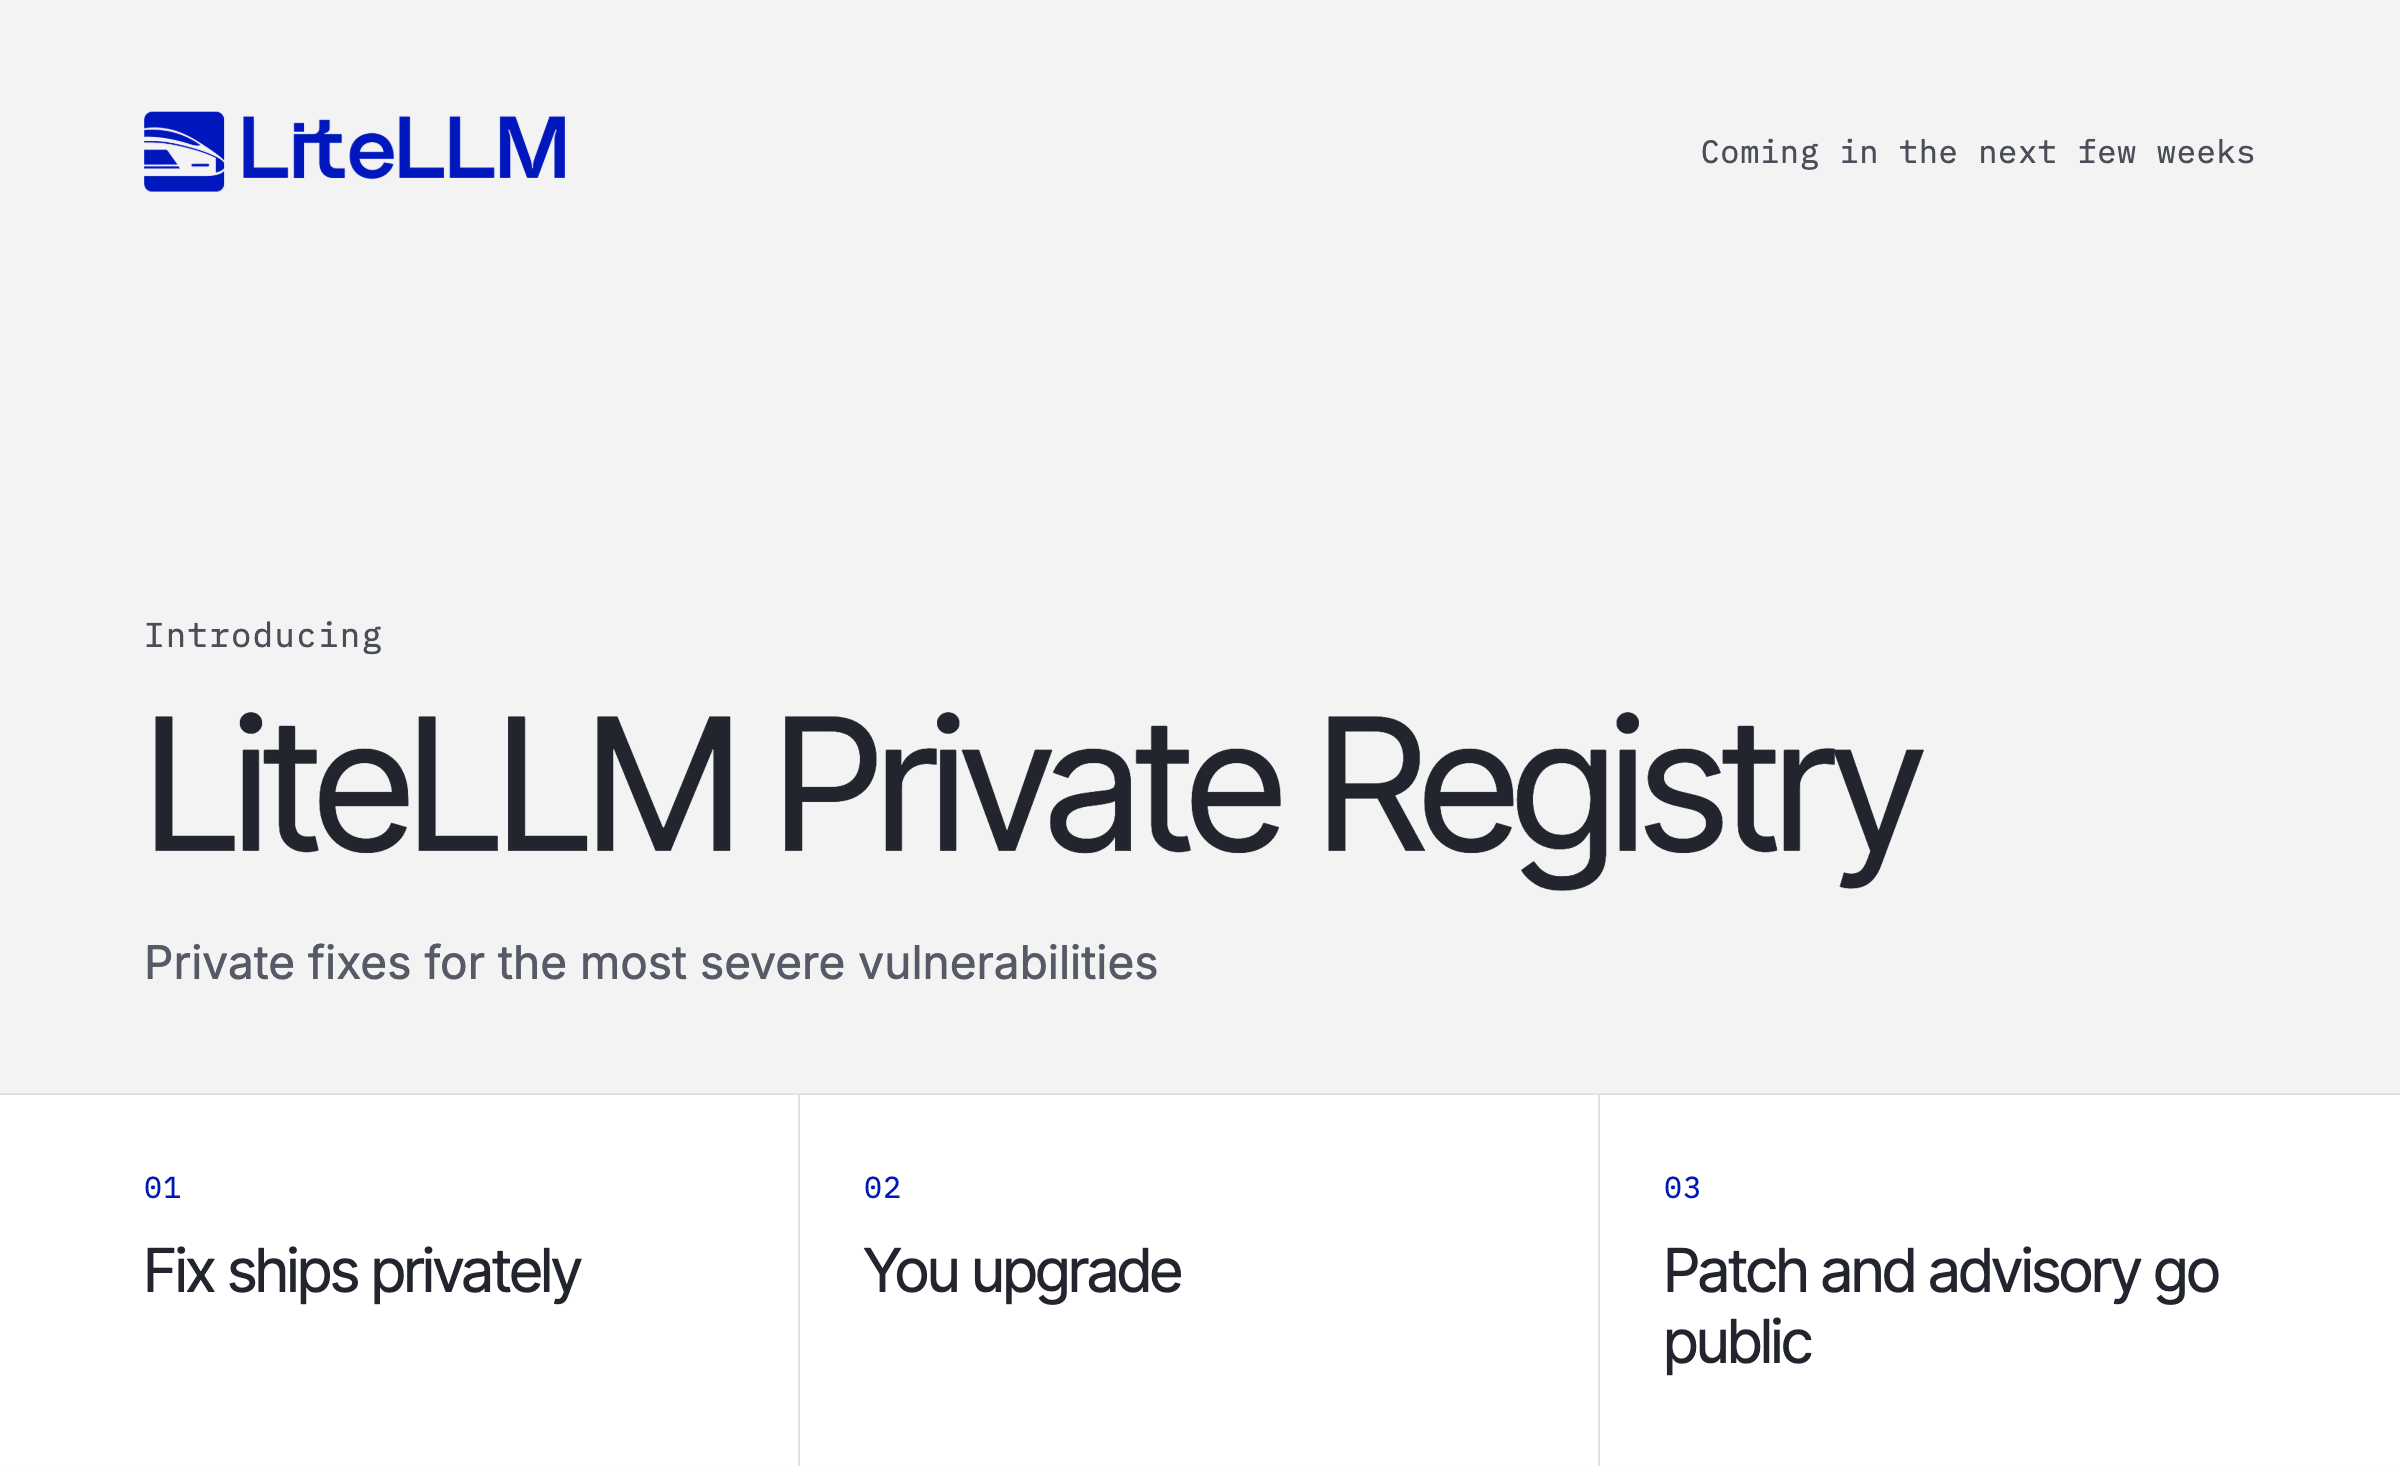
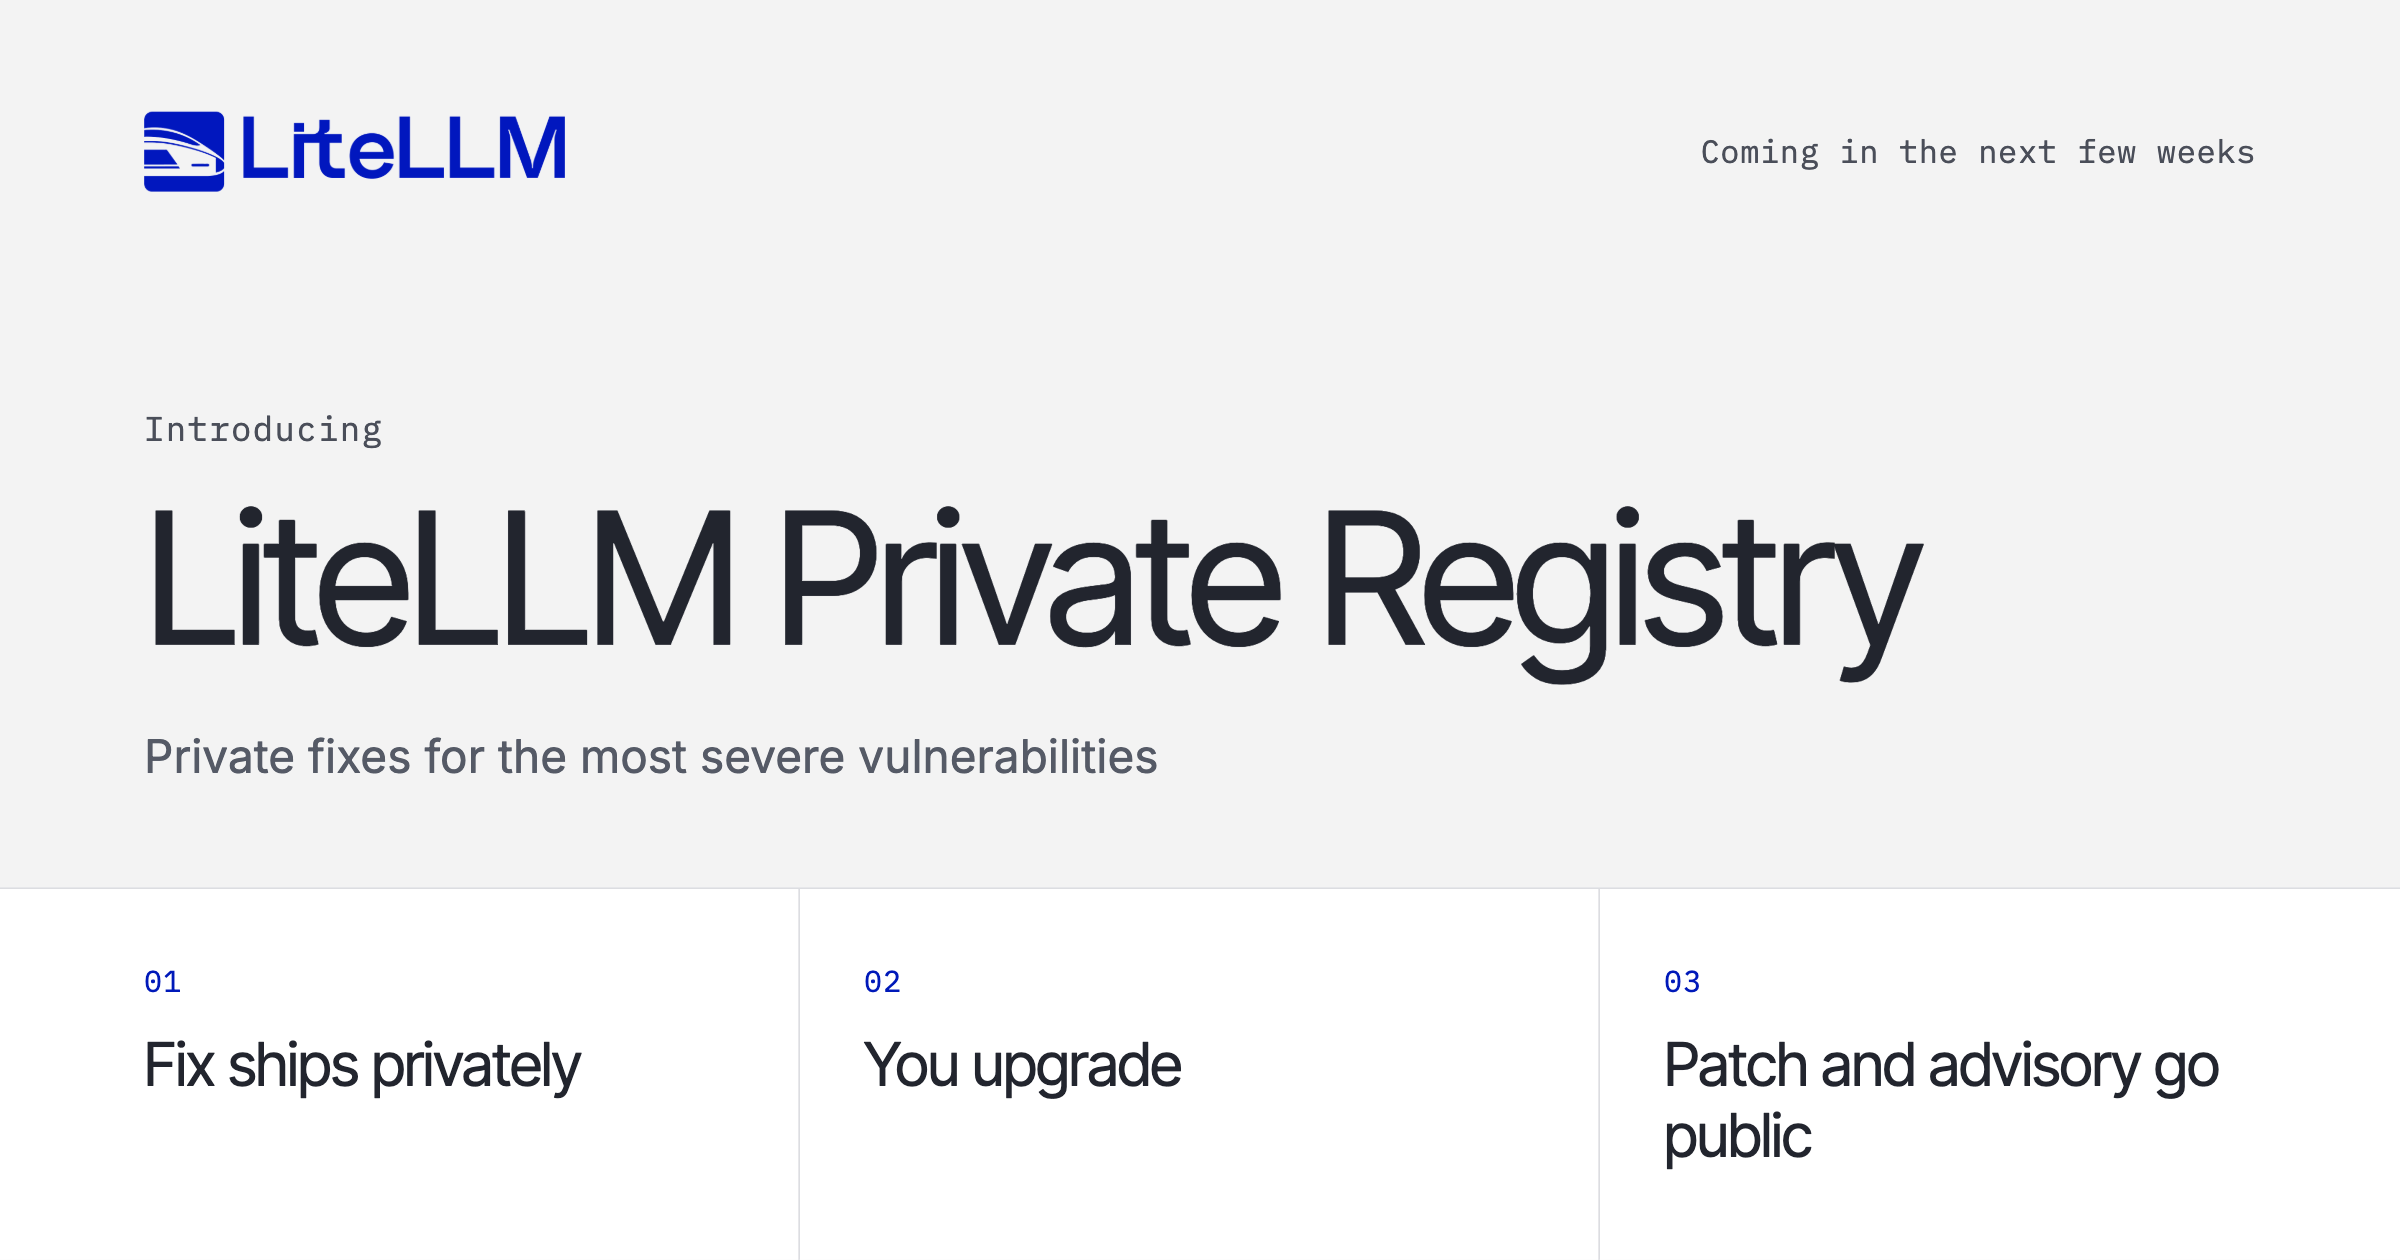
fix: resize registry artwork to fill the blog card

diff --git a/src/theme/BlogListPage/index.js b/src/theme/BlogListPage/index.js
@@ -126,7 +126,6 @@ function formatDate(dateStr) {
 }
 
 function CardImage({item, title}) {
-  const containImage = item.content?.metadata?.frontMatter?.image_fit === 'contain';
   const image = item.content?.assets?.image || item.content?.metadata?.frontMatter?.image;
   const lightImage = item.content?.metadata?.frontMatter?.image_light;
   const resolved = useBaseUrl(typeof image === 'string' ? image : '');
@@ -134,7 +133,7 @@ function CardImage({item, title}) {
   const src = typeof image === 'string' && /^(https?:)?\/\//.test(image) ? image : image ? resolved : null;
   const lightSrc = typeof lightImage === 'string' && /^(https?:)?\/\//.test(lightImage) ? lightImage : lightImage ? resolvedLight : null;
   return (
-    <div className={`${styles.cover}${containImage ? ` ${styles.coverContain}` : ''}`}>
+    <div className={styles.cover}>
       {src && lightSrc ? (
         <ThemedImage sources={{light: lightSrc, dark: src}} alt="" loading="lazy" decoding="async" />
       ) : src ? (

diff --git a/src/theme/BlogListPage/styles.module.css b/src/theme/BlogListPage/styles.module.css
@@ -383,15 +383,6 @@
   transform: scale(1.03);
 }
 
-.coverContain img {
-  object-fit: contain;
-}
-
-.featured:hover .coverContain img,
-.tile:hover .coverContain img {
-  transform: none;
-}
-
 /* Posts without a cover show their title on the tinted panel, like the
    website's placeholder. */
 .coverTitle {

diff --git a/blog/litellm_private_registry/index.md b/blog/litellm_private_registry/index.md
@@ -10,7 +10,6 @@ description: "LiteLLM is committing to a private registry to provide early acces
 tags: [security]
 hide_table_of_contents: false
 image: /img/blog/litellm_private_registry/header.png
-image_fit: contain
 ---
 
 ![LiteLLM Private Registry: private fixes for the most severe vulnerabilities](/img/blog/litellm_private_registry/header.png)
